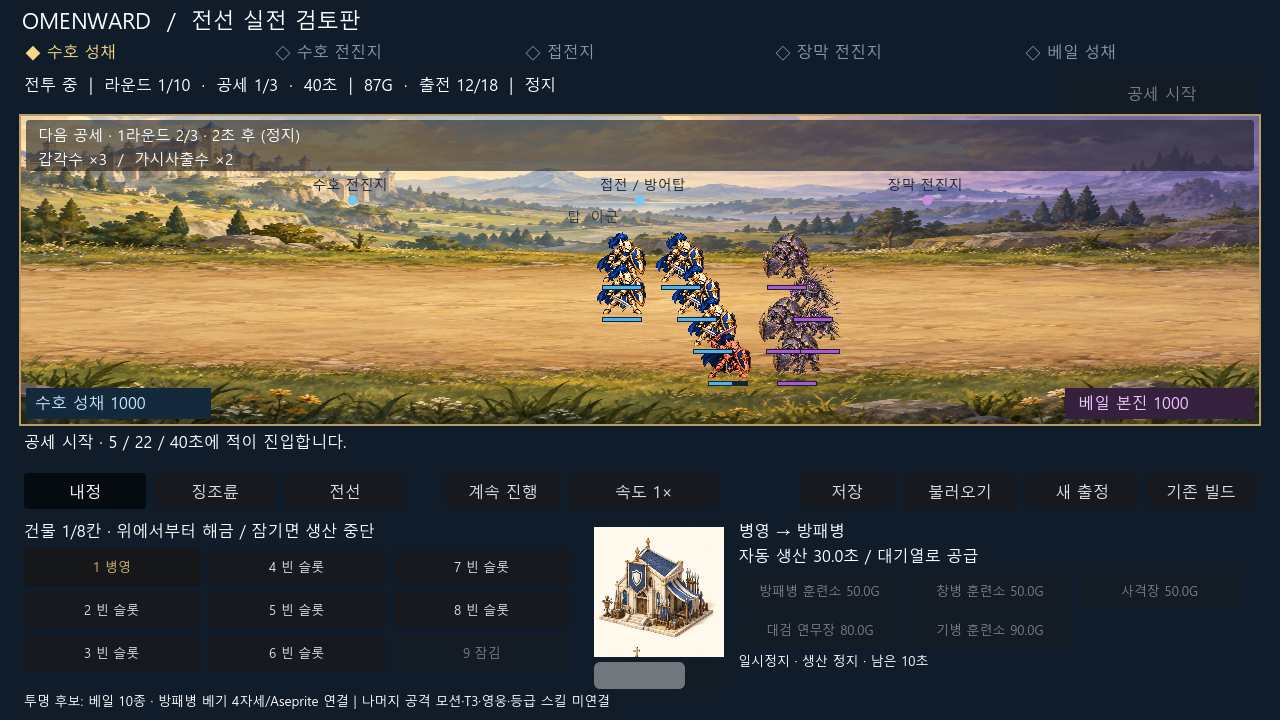
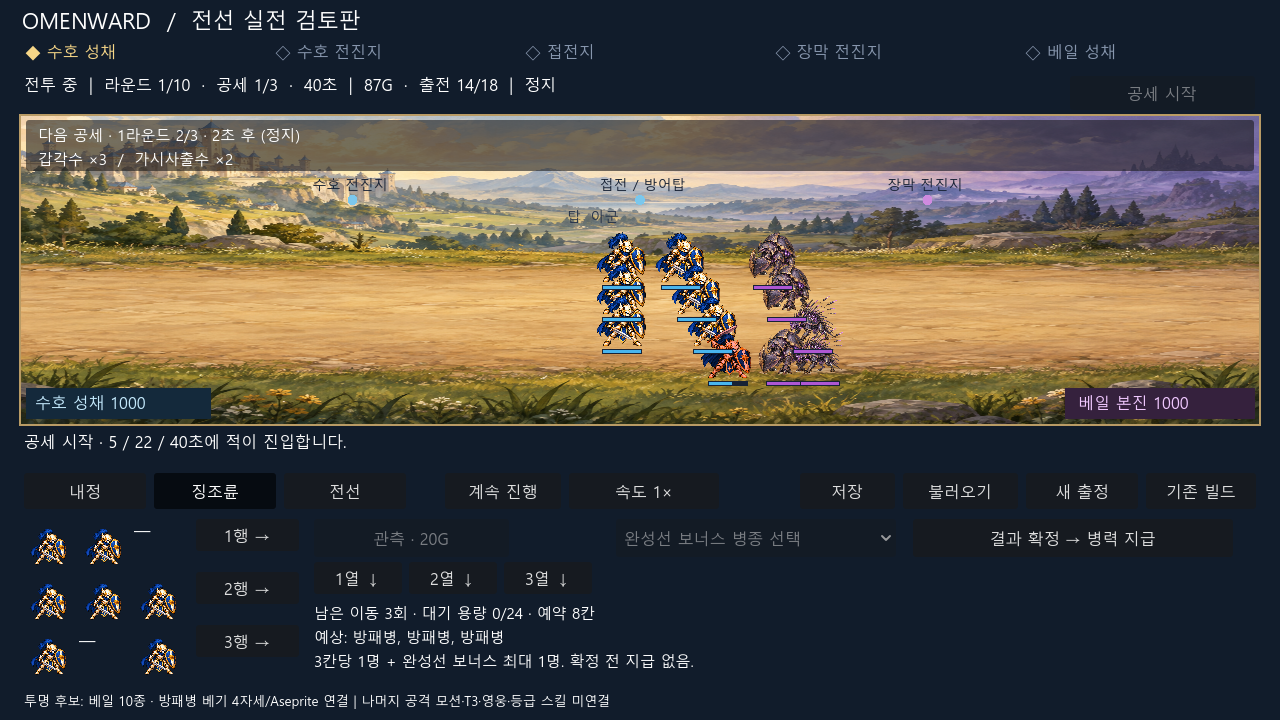
Complete omen observation adjustment confirmation and weighted reserve

diff --git a/tools/replan_scope.py b/tools/replan_scope.py
@@ -35,6 +35,7 @@ ALLOWED = {
     'output/front-battle-1080.png',
     'output/front-mixed.png', 'output/front-mixed-1080.png',
     'output/front-recovery.png',
+    'output/front-omen.png',
     'output/front-shield-windup.png', 'output/front-shield-impact.png', 'output/front-shield-recover.png',
     'tests/replan_slice_test.gd', 'tests/replan_slice_test.gd.uid',
     'tests/replan_screen_test.gd', 'tests/replan_screen_test.gd.uid',

diff --git a/docs/superpowers/plans/2026-09-11-visible-battle-slice.md b/docs/superpowers/plans/2026-09-11-visible-battle-slice.md
@@ -1,5 +1,19 @@
 # Visible battle and construction implementation plan
 
+## 2026-09-13 Omen transaction implementation
+
+Execution complete for this transaction: RED missing API/UI then GREEN99 model checks + UI/save/default + scope5. GPU front-omen.png and natural combat19damage/17units/3shieldposes. Review found pending saves could inject unavailable units; corrected allowed-pool validation before state mutation with RED regression. JSON version membership was type-sensitive; explicit numeric comparison fixes real disk load. v1 overflow rejected without mutation, no truncation. Five-perspective independent rereview clean (not independent runtime). Real-resource paid_mobilization policy reaches first refit with5allies/9enemies versus0allies in three free-only policies, but all lose round2. Policy does not optimize shifts and does not establish balance/Human PASS. No new Base reusable module proven; project-only lesson is validate pending reward source and reservation together. Below checklist records original plan.
+
+User continuation authorizes existing blueprint completion without routine approval. Scope: front_run.gd/front_screen.gd, existing model/UI/capture tests and current owners. Spec: Human Blueprint 룰렛의 구체 처리 / 경제. No new art/combat stat tuning/Base lock change.
+
+Research: Slotbound official https://store.steampowered.com/app/4906570/ (3x3 + autobattle, ADAPT acquisition-to-battle connection; REJECT jackpot positioning); Commander Quest https://flywaygames.com/en/game/commander-quest (composition/synergy, ADAPT visible unit outcome). Current immediate-award preview is not the specified choice loop. Alternatives: tune combat now (defer: acquisition incomplete); weighted capacity only (leaves decision absent); complete observation/adjust/confirm transaction (selected: connects player agency). REUSE existing model/UI/catalog/art, no toolkit.
+
+- [ ] RED: confirm API; no early grant; weighted capacity rejection without RNG/payment; three shifts; line bonus choice; repeat confirmation; pending save restoration.
+- [ ] Model interfaces: queue_used, spin_required_capacity, can_spin, shift_board, bonus_options, omen_rewards, confirm_omen. spin starts pending transaction, reserves 4*maximum pool unit cost. Building mutation/round start locked while pending. Snapshot v2; accept v1 only when weighted queue fits, no unit discard or rejected-save overwrite.
+- [ ] UI: 3x3 cards, six cyclic row/column controls, remaining moves, eligible bonus choice, predicted rewards, single confirmation. Shared spin guard, existing art.
+- [ ] Local model/UI/default + scope + GPU + review, then real-resource policy comparison using confirmation.
+- [ ] Current owners/readback, selective commit/current branch CI, disposable test saves to user deletion review folder.
+
 ## Current completion loop: research -> specification -> connected implementation -> playtest
 
 Latest execution evidence (supersedes the single-policy 79-check sample below): 81 model checks, UI/save/default scene PASS. Three actual-resource policies at seed1947 and 0.1-second steps: reinforcement/ranged/mixed all DEFEAT in round2; first refit allied0, enemy12/12/13, gold22/101/25, home HP1000; recovery spend0. No resource injection. These are reproducible policy diagnostics, not proof of optimal-play impossibility. Next investigate production, surviving enemy carryover and unimplemented acquisition decisions before tuning numbers. Independent five-perspective read-only review found no P0-P2 blocker; execution evidence remains separately owned by local test output and GPU capture. Recovery dialog first had overlapping direct children; fixed with one VBox content owner and visually rechecked.

diff --git a/docs/ACTIVE_CONTEXT.md b/docs/ACTIVE_CONTEXT.md
@@ -1,5 +1,7 @@
 # [현행] OMENWARD Active Context
 
+2026-09-13 징조륜 연결: 관측→행/열 3회 이동→복수 완성선 보너스 선택→확정 지급을 구현했다. 대기열은 병종 용량 합이며 최대 지급 공간을 회전 전 확인한다. pending 상태의 건설/전문화/재회전/공세 시작을 차단하고 v2 저장에 이동 수/예약량을 보존한다. 정상 v1은 수용, 용량 초과 구형 저장은 손실 없이 거절한다. 99모델/UI/저장/기본 실행 PASS, GPU front-omen 확인. 독립 검토에서 발견한 불가능한 pending 병종 저장 수락을 RED→수정→GREEN으로 교정했다. 실제 자원 유료 동원 정책은 첫 재정비 아군5명으로 개선됐지만 2라운드 패배; 다른3정책도 패배. 최적 전략/밸런스/Human PASS 아님. 다음은 명세의 wave cycle/0.4초 순차출현과 현재 동시 출현 구현의 차이를 교정한다.
+
 2026-09-13 최신 루프 교정: 유사 장르 조사→기획 구체화→시스템 연결→구현→실제 실행→보완을 반복하며 UI 수정만으로 축소하지 않는다. 기존 Blueprint 개별 유료 치료를 준비/재정비 창·골드·HP·저장에 연결했다. 모델81검사 및 UI/저장/기본 실행 PASS. 치료 GPU 캡처는 명시적 혼합 부상병 경계 fixture이며 자연 생존 증거가 아니다. 시작 자원/seed1947/0.1초 간격의 병영 증설·궁병 전문화·일반/특수 혼합 운영은 모두 첫 재정비 아군0/적12~13, 2라운드 패배, 치료 지출0이었다. 최적 운영 불가능이나 전체 밸런스 FAIL 확정은 아니다. 다음은 초반 생산·공세·충원과 징조륜 선택 연결이며 아래 아트-only 우선순위를 대체한다. 전체 게임/Human/main 통합 미완료.
 
 혼합 병종 후속: 실제 병력 상태의 진영/이름/체력을 읽는 근접 hover 정보 추가(최대6행+초과 안내). 5병종×양측10유닛 검증 편성, 실제0.6초 전투10피해 처리 후720/1080 캡처. 720에서 마우스 입력→native 팝업 표시 확인. 일반 획득/밸런스 증거 아님. 혼합 검사에서 아군 방패병 외 도감의 불투명 흰 사각형이 확인되어 다음은 해당 소비 자산 투명화 계획이 우선. 모델68/UI·저장/기본실행 PASS; Human/전체 아트 미완료.

diff --git a/docs/OMENWARD_ROADMAP.md b/docs/OMENWARD_ROADMAP.md
@@ -1,5 +1,7 @@
 # [현행] OMENWARD Roadmap
 
+2026-09-13 징조륜 관측/조작/확정·가중 대기 용량 연결 및99모델/UI/실행 검증 완료. 다음: 공세 데이터 전개와 현재 반복 동시 스폰의 차이 → 첫 맵 복수 운영/난수와 병종 대응 → 성장/5맵/영웅. 기존 기획 수치는 검증 초깃값이며 자동 패배를 숨기기 위한 임의 수치 조정은 하지 않는다.
+
 2026-09-13 최신 완성 루프: 유료 개별 치료의 경제/재정비/UI/저장 연결 완료. 실제 자원 3운영 모두 첫 재정비 생존 아군0·2라운드 패배. 다음 순서: 초반 생산/공세 잔류/충원과 미구현 명세 대조 → 징조륜 가중 대기 한도·행/열 조작·확정 거래 → 첫 맵 전체 흐름 복수 운영/난수 검증 → 5맵 전환·성장·영웅 명세 단위 확장. 아트/모션은 consumer와 함께 병행하며 기능 연결을 미루지 않는다. 수치 변경 전에 원인·플레이어 가치·회귀 계획을 기록한다. 아래 아트 우선 순서는 이 블록으로 대체한다.
 
 혼합 병종 검증 후 우선순위: 아군 궁병/마법사/사제/창병 등 불투명 도감 소비를 투명 전투 이미지로 교정하는 계획 → 동작/혼합 가독성 재검수 → 첫 맵 전체 흐름. 인근 병력 hover와 양측5병종 검증 캡처는 연결됨. 정보 팝업을 아트 완료나 접근성 완료로 간주하지 않는다.

diff --git a/docs/process/APPROVED_REPLAN_UI_MOTION_BUILD_SCOPE_20260911.md b/docs/process/APPROVED_REPLAN_UI_MOTION_BUILD_SCOPE_20260911.md
@@ -1,5 +1,9 @@
 # Approved project-local replan BUILD scope
 
+Exact omen runtime evidence output: `output/front-omen.png` (existing actual observation UI; no new art).
+
+2026-09-13 continued implementation: latest user requests completing remaining blueprint connections without routine reapproval. Existing front_run/front_screen and replan tests now cover weighted reserve capacity and observation/adjust/bonus/confirm, with versioned pending-save validation. Exact existing consumer paths only; no Base lock/protected list change. Existing capture outputs may show this flow.
+
 ## Authority
 
 User requested UI correction and transparent units with connected motion, then explicitly approved the assistant's proposal to update the planning-only contract for that work: **진행해**. This authorizes this bounded transition, not general removal of protection or main/admin bypass.
